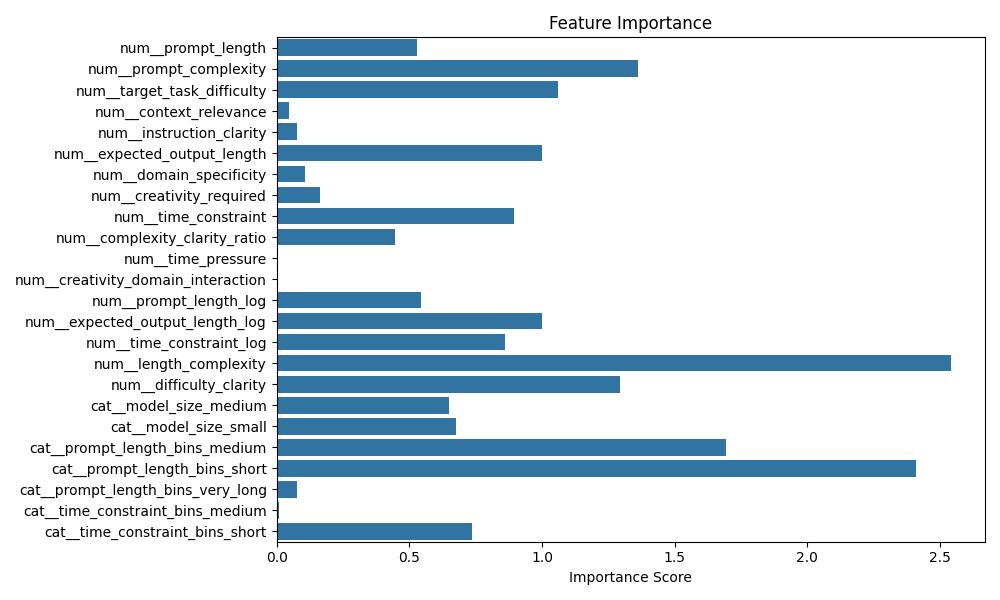
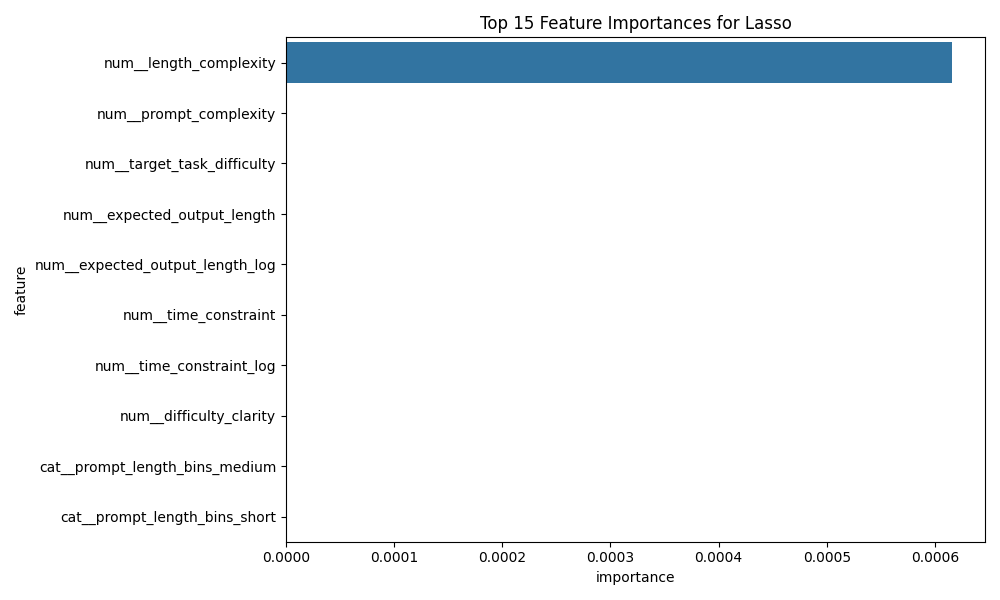
Enhanced the risk prediction model for LLM prompt effectiveness. - Incorporated advanced data preprocessing techniques, including log transformation and binning for skewed features. - Added feature engineering methods to create interaction terms and improve categorical feature handling. - Implemente

diff --git a/risk_prediction_refinement.py b/risk_prediction_refinement.py
@@ -2,12 +2,12 @@ import pandas as pd
 import numpy as np
 import matplotlib.pyplot as plt
 import seaborn as sns
-from sklearn.model_selection import train_test_split, cross_val_score
+from sklearn.model_selection import train_test_split, cross_val_score, GridSearchCV
 from sklearn.preprocessing import StandardScaler, OneHotEncoder, PowerTransformer
 from sklearn.compose import ColumnTransformer
 from sklearn.pipeline import Pipeline
 from sklearn.impute import SimpleImputer
-from sklearn.feature_selection import SelectKBest, f_regression
+from sklearn.feature_selection import SelectKBest, f_regression, RFE
 from sklearn.metrics import mean_squared_error, r2_score, mean_absolute_error
 from sklearn.linear_model import LinearRegression, Ridge, Lasso
 from sklearn.ensemble import RandomForestRegressor, GradientBoostingRegressor
@@ -15,6 +15,7 @@ from sklearn.svm import SVR
 from sklearn.neural_network import MLPRegressor
 from xgboost import XGBRegressor
 from lightgbm import LGBMRegressor
+from sklearn.inspection import permutation_importance
 
 class AdvancedRiskPredictor:
     def __init__(self):
@@ -34,6 +35,7 @@ class AdvancedRiskPredictor:
         self.best_model = None
         self.prompt_length_bins = None
         self.time_constraint_bins = None
+        self.selected_feature_names = None
 
     def load_llm_prompting_data(self):
         np.random.seed(42)
@@ -105,6 +107,10 @@ class AdvancedRiskPredictor:
         X_preprocessed = self.preprocessor.fit_transform(X)
         X_selected = self.feature_selector.fit_transform(X_preprocessed, y)
         
+        # Update selected feature names
+        feature_names = self.preprocessor.get_feature_names_out()
+        self.selected_feature_names = feature_names[self.feature_selector.get_support()]
+        
         return X_selected, y
 
     def train_and_evaluate(self, data):
@@ -113,7 +119,19 @@ class AdvancedRiskPredictor:
 
         results = {}
         for name, model in self.models.items():
-            model.fit(X_train, y_train)
+            if name == 'Random Forest':
+                param_grid = {
+                    'n_estimators': [50, 100, 200],
+                    'max_depth': [None, 10, 20],
+                    'min_samples_split': [2, 5, 10]
+                }
+                grid_search = GridSearchCV(model, param_grid, cv=5, scoring='neg_mean_squared_error')
+                grid_search.fit(X_train, y_train)
+                model = grid_search.best_estimator_
+                self.models[name] = model
+            else:
+                model.fit(X_train, y_train)
+            
             y_pred = model.predict(X_test)
             mse = mean_squared_error(y_test, y_pred)
             rmse = np.sqrt(mse)
@@ -145,6 +163,9 @@ class AdvancedRiskPredictor:
         # Visualize model performance
         self.visualize_model_performance(results)
 
+        # Feature importance for the best model
+        self.visualize_feature_importance(X, y, self.models[self.best_model])
+
     def predict_prompt_effectiveness(self, prompt_data):
         prompt_data = self.engineer_features(prompt_data)
         
@@ -158,15 +179,18 @@ class AdvancedRiskPredictor:
         X_selected = self.feature_selector.transform(X_preprocessed)
         return self.models[self.best_model].predict(X_selected)
 
-    def visualize_feature_importance(self, data):
-        X, y = self.preprocess_data(data)
-        feature_names = self.preprocessor.get_feature_names_out()
-        feature_importances = self.feature_selector.scores_
+    def visualize_feature_importance(self, X, y, model):
+        if hasattr(model, 'feature_importances_'):
+            importances = model.feature_importances_
+        else:
+            importances = permutation_importance(model, X, y, n_repeats=10, random_state=42).importances_mean
+        
+        feature_importance = pd.DataFrame({'feature': self.selected_feature_names, 'importance': importances})
+        feature_importance = feature_importance.sort_values('importance', ascending=False).head(15)
 
         plt.figure(figsize=(10, 6))
-        sns.barplot(x=feature_importances, y=feature_names)
-        plt.title('Feature Importance')
-        plt.xlabel('Importance Score')
+        sns.barplot(x='importance', y='feature', data=feature_importance)
+        plt.title(f'Top 15 Feature Importances for {self.best_model}')
         plt.tight_layout()
         plt.savefig('feature_importance.png')
         plt.close()
@@ -201,6 +225,20 @@ class AdvancedRiskPredictor:
         plt.savefig('model_performance_comparison.png')
         plt.close()
 
+    def visualize_residuals(self, X_test, y_test):
+        y_pred = self.models[self.best_model].predict(X_test)
+        residuals = y_test - y_pred
+
+        plt.figure(figsize=(10, 6))
+        sns.scatterplot(x=y_pred, y=residuals)
+        plt.axhline(y=0, color='r', linestyle='--')
+        plt.title('Residual Plot')
+        plt.xlabel('Predicted Values')
+        plt.ylabel('Residuals')
+        plt.tight_layout()
+        plt.savefig('residual_plot.png')
+        plt.close()
+
 # Example usage
 if __name__ == "__main__":
     risk_predictor = AdvancedRiskPredictor()
@@ -214,8 +252,10 @@ if __name__ == "__main__":
     # Train and evaluate models
     risk_predictor.train_and_evaluate(data)
 
-    # Visualize feature importance
-    risk_predictor.visualize_feature_importance(data)
+    # Visualize residuals
+    X, y = risk_predictor.preprocess_data(data)
+    X_train, X_test, y_train, y_test = train_test_split(X, y, test_size=0.2, random_state=42)
+    risk_predictor.visualize_residuals(X_test, y_test)
 
     # Example prediction
     new_prompt = pd.DataFrame({
@@ -235,8 +275,6 @@ if __name__ == "__main__":
     print(f"\nPredicted prompt effectiveness score: {predicted_effectiveness[0]:.2f}")
 
     print("\nMost important features:")
-    feature_names = risk_predictor.preprocessor.get_feature_names_out()
-    feature_importances = risk_predictor.feature_selector.scores_
-    top_features = sorted(zip(feature_names, feature_importances), key=lambda x: x[1], reverse=True)[:5]
+    top_features = sorted(zip(risk_predictor.selected_feature_names, risk_predictor.feature_selector.scores_), key=lambda x: x[1], reverse=True)[:5]
     for name, importance in top_features:
         print(f"{name}: {importance:.2f}")
